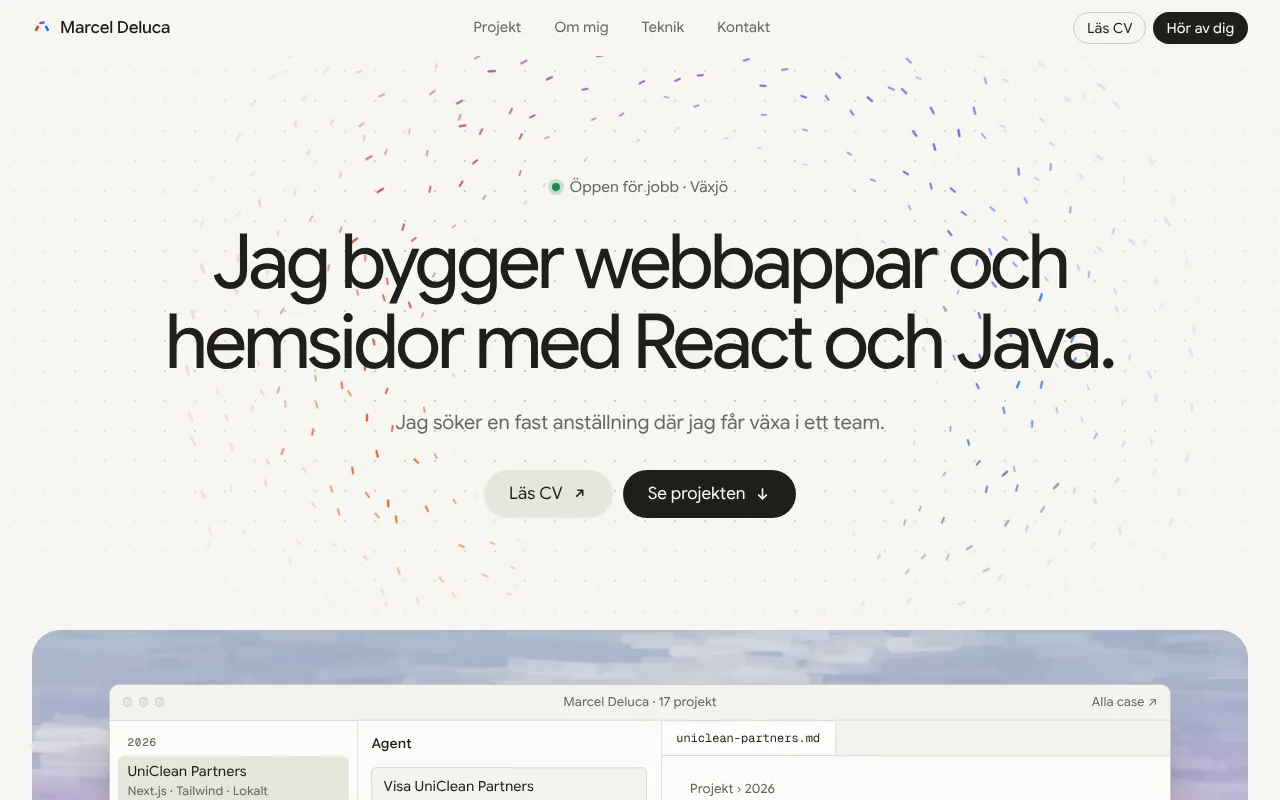
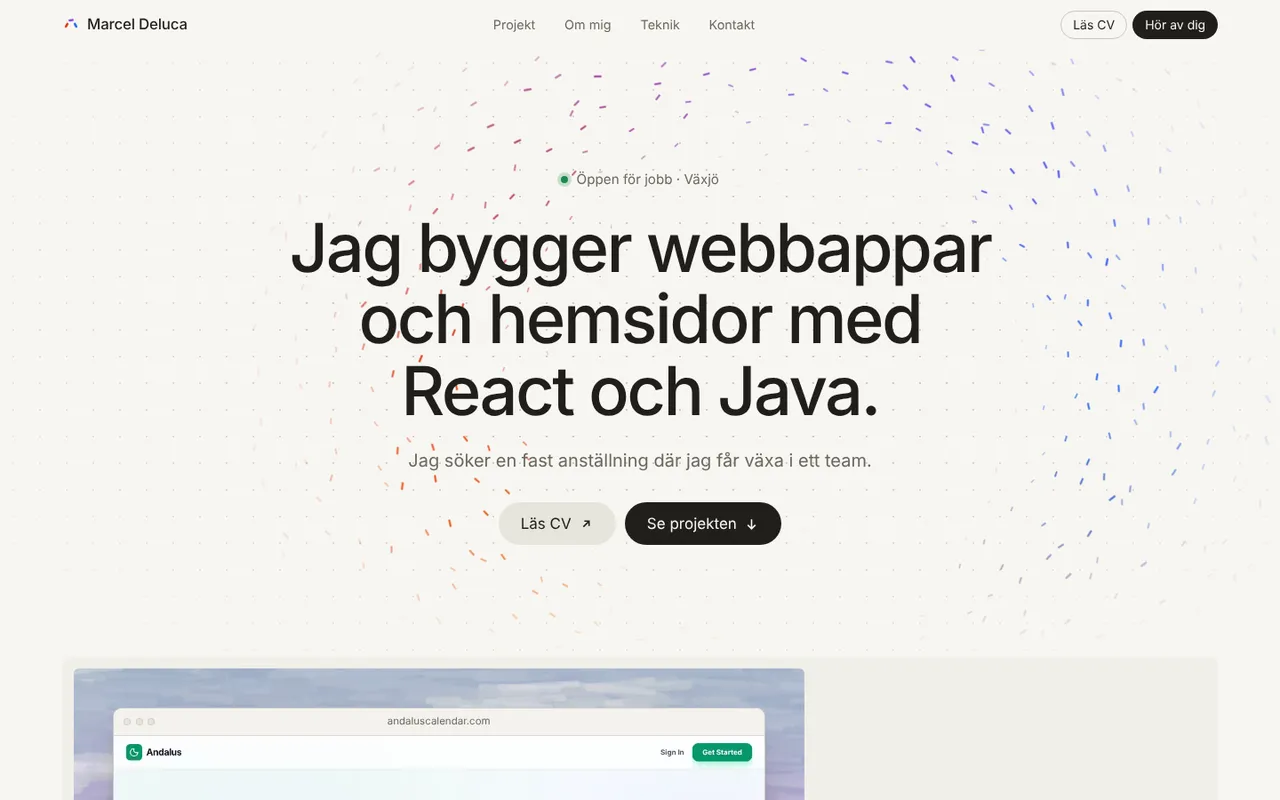
Fix three defects in the combined project section and log it (#51)
The pane no longer fetches previews at page load, keyboard focus and
the shown project stay together during smooth scrolling, and the last
project becomes active while the pane is still whole.

Claude-Session: https://claude.ai/code/session_01EXxSk1QGK1YWdCTwuAxsWe

diff --git a/prototypes/tyngdlos.html b/prototypes/tyngdlos.html
@@ -935,7 +935,7 @@ html:not(.wide) .it-m { font-size: .875rem; line-height: 1.4; display: -webkit-b
     (function () {
       var list = $('list'), wide = window.matchMedia('(min-width: 1024px)'), SIZES = '(min-width: 1024px) 50vw, 1px';
       if (!list || !order.length) return;
-      var els = [], cur = order[0], rest = P.length - 1 - order.length;
+      var els = [], cur = order[0], rest = P.length - 1 - order.length, split = list.parentNode.parentNode, pane = split.querySelector('.pane');
       function out(a, href, label) { a.href = href; a.target = '_blank'; a.rel = 'noopener noreferrer'; if (label) a.setAttribute('aria-label', label); return a; }
       set('n-all', P.length); set('n-rest', rest); $('all-n').hidden = rest < 1;
 
@@ -964,6 +964,12 @@ html:not(.wide) .it-m { font-size: .875rem; line-height: 1.4; display: -webkit-b
 
       /* The preview: two stacked images. The new one loads hidden on top and fades in over the old one. */
       var L = [$('v-a'), $('v-b')], front = 0, pre = [];
+      /* No image is fetched while the split view is still far below the screen. */
+      var near = !('IntersectionObserver' in window);
+      if (!near) new IntersectionObserver(function (en, io) {
+        if (!en.some(function (e) { return e.isIntersecting; })) return;
+        io.disconnect(); near = true; if (wide.matches) view(cur);
+      }, { rootMargin: '400px 0px' }).observe(split);
       var vCase = $('v-case'), vSite = $('v-site'), vGone = $('v-gone'), vGh = $('v-gh');
       L.forEach(function (im) { im.sizes = SIZES; im.i = -1; im.onload = function () { im.ok = true; if (im.go) im.go(); }; });
       function picture(i) {
@@ -989,6 +995,7 @@ html:not(.wide) .it-m { font-size: .875rem; line-height: 1.4; display: -webkit-b
         vSite.hidden = !p[7] || off; if (!vSite.hidden) out(vSite, p[7], 'Besök sidan: ' + p[1]);
         vGone.hidden = !p[7] || !off;
         vGh.hidden = !p[8]; if (p[8]) out(vGh, p[8], 'Kod på GitHub: ' + p[1]);
+        if (!near) return;
         picture(i);
         /* Fetch the neighbours now, so the next swap has its image ready. */
         for (k = n - 2; k <= n + 2; k++) if (k >= 0 && k < order.length && k !== n && !pre[k]) { pre[k] = new Image(); pre[k].sizes = SIZES; cover(pre[k], P[order[k]]); }
@@ -1002,20 +1009,27 @@ html:not(.wide) .it-m { font-size: .875rem; line-height: 1.4; display: -webkit-b
 
       /* Two rules pick the active item. Pointing (pointer movement or keyboard focus) wins until the page has
          scrolled a bit further; scrolling wins until the pointer has really moved. So they never alternate. */
-      var mode = 'scroll', lockY = 0, anchor = null, tick = false, tops = [], T0 = 0, B = 0, max = 0;
+      var mode = 'scroll', lockY = 0, hold = 0, anchor = null, tick = false, tops = [], T0 = 0, B = 0, E = 0, max = 0;
       function measure() {
         var s = window.scrollY, r = list.getBoundingClientRect();
         T0 = r.top + s; B = r.bottom + s;
         tops = order.map(function (i) { return els[i].getBoundingClientRect().top + s; });
         max = Math.max(0, root.scrollHeight - window.innerHeight);
+        /* The scroll position at which the sticky pane starts to leave with the end of the split view. */
+        E = split.getBoundingClientRect().bottom + s - pane.offsetHeight - (parseFloat(getComputedStyle(pane).top) || 0);
       }
+      /* The scroll the browser makes to show a focused element does not count, however long it glides. */
+      function held() { lockY = window.scrollY; clearTimeout(hold); hold = setTimeout(function () { hold = 0; }, 200); }
       /* The item that crosses 45% of the viewport height. Near the top and the bottom of the page that line
          cannot reach the first and last items, so there it slides towards them. */
       function probe() {
         var s = window.scrollY, line = window.innerHeight * 0.45, R = Math.min(line, max / 2) || 1;
         var a = Math.min(line, T0 + 48), b = Math.max(line, B - 48 - max), off = line, n = 0, k;
+        var c = Math.min(tops[tops.length - 1] - E + 64, window.innerHeight - 48);
         if (s < R) off = a + (line - a) * (s / R);
         else if (max - s < R) off = b + (line - b) * ((max - s) / R);
+        /* Towards the end of the list the line moves down too, so the last item is active while the pane is still whole. */
+        if (c > line && s > E - 64 - line) off = Math.max(off, line + (c - line) * Math.min(1, (s - E + 64 + line) / line));
         for (k = 0; k < tops.length; k++) if (tops[k] <= s + off) n = k;
         return order[n];
       }
@@ -1024,7 +1038,7 @@ html:not(.wide) .it-m { font-size: .875rem; line-height: 1.4; display: -webkit-b
         if (!wide.matches) return;
         var s = window.scrollY;
         if (mode === 'point') {
-          if (lockY !== lockY) lockY = s;   /* the jump the browser made to show a focused item does not count */
+          if (hold) { held(); return; }
           if (Math.abs(s - lockY) < 48) return;
         }
         /* The sections above the list can change height (fonts, images), so its place is read again here. */
@@ -1043,10 +1057,11 @@ html:not(.wide) .it-m { font-size: .875rem; line-height: 1.4; display: -webkit-b
         }
         mode = 'point'; lockY = window.scrollY; activate(+a.getAttribute('data-i'));
       }, { passive: true });
-      list.addEventListener('focusin', function (e) {
+      /* Focus on an item shows it. Focus on the link row or on the pane's links keeps the project that is shown. */
+      split.addEventListener('focusin', function (e) {
         var a = item(e);
-        if (!a) return;
-        mode = 'point'; lockY = NaN; activate(+a.getAttribute('data-i'));
+        if (!wide.matches) return;
+        mode = 'point'; held(); if (a) activate(+a.getAttribute('data-i'));
       });
       /* In the split view the list is one tab stop: arrows move between projects, Tab goes on to the links in the pane. */
       list.addEventListener('keydown', function (e) {

diff --git a/JOURNEY.md b/JOURNEY.md
@@ -2,6 +2,25 @@
 
 A running log of what we built, what we chose, and why. Written so a later article can tell the story without reconstructing it from git.
 
+## 26 Nov 2026 — Tyngdlös: walkthrough on top, split view below (#51)
+
+**Goal:** Of the five variants in #50, Marcel liked Genomgång and Delad vy. He asked for the featured project on top with the walkthrough video, the split view below for more projects, about ten projects on the home page with the rest on the projects page, and a visit button that becomes unavailable when a customer's site no longer answers.
+
+**What we did**
+- Replaced the app window in `prototypes/tyngdlos.html` (now 82 KB) with the featured card from Genomgång, the split view from Delad vy for the next nine projects, and a row "Se alla 17 projekt"
+- Three lines steer it: `FEATURED`, `HOME_COUNT = 10` and `ENDED = []`. A slug in `ENDED` swaps the visit link for an unavailable button and the text "Kunden har avslutat projektet"
+- New overview thumbnail, and the decisions written into the build plan (#49)
+
+**Decisions**
+- **The link check belongs to the build, not the prototype.** It will run in GitHub Actions on every push to `main` and once a month (Marcel's choice), and republish the site.
+- **Only certain failures count as ended:** the domain is gone, or the site answers 404 or 410. Timeouts and server errors leave the button alone, so a short outage at a customer cannot make the site claim the customer has left. A manual `siteStatus` field overrides the check.
+- **Build and test in separate subagents.** The build task still used 178k tokens and the test task 166k, both over the 150k limit, because each had to read an 80 KB single-file page. In Next.js the units are components, which are far smaller.
+
+**Tested**
+- 177 Playwright checks at 390 to 1920 px by the test subagent: video rules, reduced motion, data saver, JavaScript off, other featured slugs, ended sites, keyboard, contrast in both themes, touch targets
+- It found and fixed three defects: the pane fetched images at page load, keyboard focus and the shown project drifted apart during smooth scrolling, and the last project became active after the pane had slid under the nav
+- Known: later items in the list activate a little lower than 45% of the viewport, and the card and the pane use different link styles for the same action
+
 ## 26 Nov 2026 — Five ways to show the projects (#50)
 
 **Goal:** Marcel loves Tyngdlös but was still not happy with how the project section feels to use. He asked for several different proposals for just that part. While they were being built he sent a screenshot of a feature card on cursor.com and added his own idea: a recorded walkthrough of a project, where an agent plays a visitor clicking around the site.
